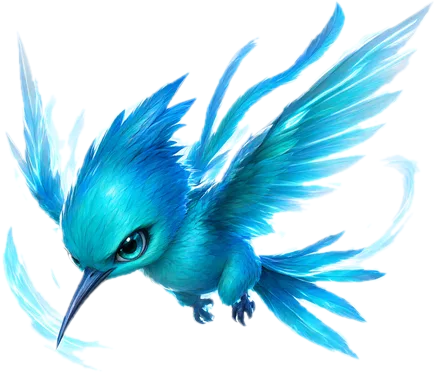
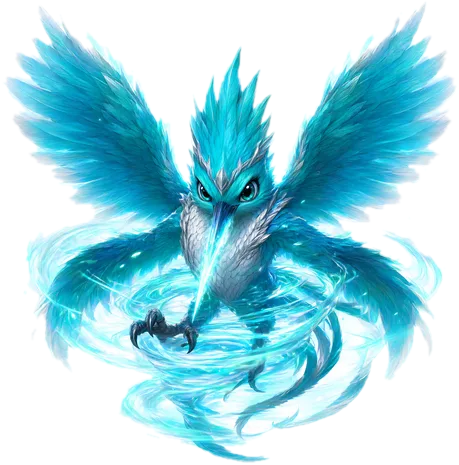
Sabimons: desenhos das 3 formas no app, fatos e poderes revisados
- Recorte das 30 imagens novas (estilo de batalha), incluindo as novas do Ventilu e do Estrelim
- Contorno de luz dourado no Zapinho/Faiscaluz/Trovalume e turquesa no Estrelim/Constelão/Galaxiá
- Recorte tira a sombra cinza do chão do Zapinho (para não virar um anel de luz)
- Todas as formas com desenho em src/data/sabimons.ts: as evoluções saem do "em breve"
- Fato do 007 (maria-farinha e guaiamum) e do 010 (tamanduá-bandeira)
- Poderes novos do Cristabuti (cristais rosa e turquesa) e do Montabuti (golem de cristal)

Claude-Session: https://claude.ai/code/session_013RvNPyb6NbVBUAbcf97H9R

diff --git a/src/data/sabimons.ts b/src/data/sabimons.ts
@@ -13,8 +13,8 @@ export const sabimons: Sabimon[] = [
     fato: 'A capivara é o maior roedor do mundo e nada muito bem.',
     formas: [
       { nome: 'Brasinho', poderes: ['Brasa Quentinha', 'Cabeçada em Chamas'], imagem: img('001', 1) },
-      { nome: 'Brasão', poderes: ['Juba de Fogo', 'Soco Brasa'] },
-      { nome: 'Fornalhuda', poderes: ['Coroa Vulcânica', 'Rio de Lava'] },
+      { nome: 'Brasão', poderes: ['Juba de Fogo', 'Soco Brasa'], imagem: img('001', 2) },
+      { nome: 'Fornalhuda', poderes: ['Coroa Vulcânica', 'Rio de Lava'], imagem: img('001', 3) },
     ],
   },
   {
@@ -22,8 +22,8 @@ export const sabimons: Sabimon[] = [
     fato: 'O boto-cor-de-rosa vive nos rios da Amazônia. É o maior golfinho de rio do mundo.',
     formas: [
       { nome: 'Pingoró', poderes: ['Bolha Saltitante', 'Esguicho'], imagem: img('002', 1) },
-      { nome: 'Botorrão', poderes: ['Onda Curvada', 'Nadadeira Giratória'] },
-      { nome: 'Marabotão', poderes: ['Anel das Águas', 'Tromba-d’Água'] },
+      { nome: 'Botorrão', poderes: ['Onda Curvada', 'Nadadeira Giratória'], imagem: img('002', 2) },
+      { nome: 'Marabotão', poderes: ['Anel das Águas', 'Tromba-d’Água'], imagem: img('002', 3) },
     ],
   },
   {
@@ -31,8 +31,8 @@ export const sabimons: Sabimon[] = [
     fato: 'O tatu-bola se fecha como uma bola para se proteger. Ele só existe no Brasil.',
     formas: [
       { nome: 'Sementú', poderes: ['Chicote de Cipó', 'Bola de Folhas'], imagem: img('003', 1) },
-      { nome: 'Tatuflora', poderes: ['Flor Perfumada', 'Laço de Cipó'] },
-      { nome: 'Matatu', poderes: ['Floresta Viva', 'Raiz Gigante'] },
+      { nome: 'Tatuflora', poderes: ['Flor Perfumada', 'Laço de Cipó'], imagem: img('003', 2) },
+      { nome: 'Matatu', poderes: ['Floresta Viva', 'Raiz Gigante'], imagem: img('003', 3) },
     ],
   },
   {
@@ -40,8 +40,8 @@ export const sabimons: Sabimon[] = [
     fato: 'O vaga-lume faz luz com uma mistura química dentro do corpo, e essa luz quase não esquenta.',
     formas: [
       { nome: 'Zapinho', poderes: ['Pisca-Pisca', 'Choquinho'], imagem: img('004', 1) },
-      { nome: 'Faiscaluz', poderes: ['Asa Relâmpago', 'Faísca Dupla'] },
-      { nome: 'Trovalume', poderes: ['Lanterna Trovão', 'Armadura Elétrica'] },
+      { nome: 'Faiscaluz', poderes: ['Asa Relâmpago', 'Faísca Dupla'], imagem: img('004', 2) },
+      { nome: 'Trovalume', poderes: ['Lanterna Trovão', 'Armadura Elétrica'], imagem: img('004', 3) },
     ],
   },
   {
@@ -49,8 +49,8 @@ export const sabimons: Sabimon[] = [
     fato: 'O jabuti é uma tartaruga que vive em terra firme e pode passar dos 50 anos de idade.',
     formas: [
       { nome: 'Pedrolho', poderes: ['Casco Duro', 'Cristal Brilhante'], imagem: img('005', 1) },
-      { nome: 'Cristabuti', poderes: ['Chuva de Ametista', 'Pisada Firme'] },
-      { nome: 'Montabuti', poderes: ['Montanha de Cristal', 'Terremoto Lento'] },
+      { nome: 'Cristabuti', poderes: ['Cristal Rosa', 'Pisada Turquesa'], imagem: img('005', 2) },
+      { nome: 'Montabuti', poderes: ['Soco de Geodo', 'Golem de Cristal'], imagem: img('005', 3) },
     ],
   },
   {
@@ -64,11 +64,11 @@ export const sabimons: Sabimon[] = [
   },
   {
     id: 's007', numero: 7, tipo: 'Areia', raridade: 'rara',
-    fato: 'As patas de trás do siri são achatadas como remos. Por isso ele nada muito bem.',
+    fato: 'A maria-farinha corre de lado bem rápido na areia da praia. O guaiamum é um caranguejo azul que vive perto dos manguezais.',
     formas: [
       { nome: 'Arenito', poderes: ['Pinça Rápida', 'Esconde na Areia'], imagem: img('007', 1) },
-      { nome: 'Dunasiri', poderes: ['Redemoinho de Areia', 'Garra de Arenito'] },
-      { nome: 'Tempestasiri', poderes: ['Tempestade de Areia', 'Casco de Duna'] },
+      { nome: 'Dunasiri', poderes: ['Redemoinho de Areia', 'Garra de Arenito'], imagem: img('007', 2) },
+      { nome: 'Tempestasiri', poderes: ['Tempestade de Areia', 'Casco de Duna'], imagem: img('007', 3) },
     ],
   },
   {
@@ -76,8 +76,8 @@ export const sabimons: Sabimon[] = [
     fato: 'No pelo do bicho-preguiça crescem algas, que deixam ele meio verde e ajudam a se esconder nas árvores.',
     formas: [
       { nome: 'Nevim', poderes: ['Sopro Gelado', 'Abraço de Neve'], imagem: img('008', 1) },
-      { nome: 'Friozão', poderes: ['Garra de Gelo', 'Pingente Pendurado'] },
-      { nome: 'Glaciaré', poderes: ['Coroa Glacial', 'Nevasca Sonolenta'] },
+      { nome: 'Friozão', poderes: ['Garra de Gelo', 'Pingente Pendurado'], imagem: img('008', 2) },
+      { nome: 'Glaciaré', poderes: ['Coroa Glacial', 'Nevasca Sonolenta'], imagem: img('008', 3) },
     ],
   },
   {
@@ -85,13 +85,13 @@ export const sabimons: Sabimon[] = [
     fato: 'O uirapuru vive na Floresta Amazônica e é famoso pelo canto, que parece uma flauta.',
     formas: [
       { nome: 'Cantaru', poderes: ['Nota Aguda', 'Assobio Mágico'], imagem: img('009', 1) },
-      { nome: 'Melodiru', poderes: ['Canção Brilhante', 'Eco da Floresta'] },
-      { nome: 'Sinfonuru', poderes: ['Onda Arco-Íris', 'Grande Sinfonia'] },
+      { nome: 'Melodiru', poderes: ['Canção Brilhante', 'Eco da Floresta'], imagem: img('009', 2) },
+      { nome: 'Sinfonuru', poderes: ['Onda Arco-Íris', 'Grande Sinfonia'], imagem: img('009', 3) },
     ],
   },
   {
     id: 's010', numero: 10, tipo: 'Estrela', raridade: 'lendaria',
-    fato: 'O tamanduá-mirim não tem dentes. Ele pega formigas e cupins com a língua comprida e grudenta.',
+    fato: 'O tamanduá-bandeira não tem dentes. Ele pega formigas e cupins com a língua, que pode passar de meio metro.',
     formas: [
       { nome: 'Estrelim', poderes: ['Pó de Estrela', 'Língua Cometa'], imagem: img('010', 1) },
       { nome: 'Constelão', poderes: ['Chuva de Meteoros', 'Lua Crescente'], imagem: img('010', 2) },

diff --git a/src/lib/loja.test.ts b/src/lib/loja.test.ts
@@ -5,7 +5,9 @@ import { sabimonPorId } from '../data/sabimons';
 import { mesclar, progressoVazio, sanitizar } from '../shared/sync';
 
 const estrelim = sabimonPorId.get('s010')!; // tem desenho das 3 formas
-const brasinho = sabimonPorId.get('s001')!; // só a forma 1 tem desenho
+const b0 = sabimonPorId.get('s001')!;
+// exemplo de Sabimon cuja forma 2 ainda não tem desenho
+const brasinho = { ...b0, formas: [b0.formas[0], { ...b0.formas[1], imagem: undefined }, b0.formas[2]] as typeof b0.formas };
 
 describe('Sabicoins', () => {
   it('o saldo é o XP menos o que foi gasto', () => {

diff --git a/scripts/recortar-sabimons.py b/scripts/recortar-sabimons.py
@@ -1,7 +1,9 @@
 # Recorta o fundo branco dos desenhos dos Sabimons e salva versões leves para o app.
-# Uso: python3 scripts/recortar-sabimons.py
+# Uso: python3 scripts/recortar-sabimons.py          (só as novas ou que mudaram)
+#      python3 scripts/recortar-sabimons.py --tudo   (refaz todas)
 # Lê arte/sabimons/originais/<número>-<forma>.png e grava public/sabimons/<número>-<forma>.webp
 # Só refaz as imagens novas ou que mudaram. Depois, atualize a lista em src/data/sabimons.ts.
+import sys
 from collections import deque
 from pathlib import Path
 import numpy as np
@@ -10,12 +12,34 @@ from PIL import Image, ImageFilter
 ORIGEM = Path('arte/sabimons/originais')
 DESTINO = Path('public/sabimons')
 TAMANHO = 480
+# Bichos escuros ganham um contorno de luz para não sumirem no fundo azul-noite (docs/ARTE-SABIMONS.md).
+CONTORNO = {
+    '004': (250, 204, 21),   # Zapinho, Faiscaluz, Trovalume: dourado
+    '010': (34, 211, 238),   # Estrelim, Constelão, Galaxiá: turquesa
+}
+# Desenhos com sombra cinza no chão: o recorte também tira o cinza claro (não usar em bicho branco).
+TIRAR_SOMBRA = {'004-1'}
+
+def contorno(img: Image.Image, cor) -> Image.Image:
+    """Desenha uma luz da cor dada em volta do bicho, por trás dele."""
+    margem = 14
+    base = Image.new('RGBA', (img.width + 2 * margem, img.height + 2 * margem), (0, 0, 0, 0))
+    base.paste(img, (margem, margem), img)
+    a = base.getchannel('A')
+    perto = a.filter(ImageFilter.MaxFilter(7)).filter(ImageFilter.GaussianBlur(2.5))
+    longe = a.filter(ImageFilter.MaxFilter(9)).filter(ImageFilter.GaussianBlur(9))
+    brilho = Image.fromarray(np.clip(np.asarray(perto, float) * 0.95 + np.asarray(longe, float) * 0.6, 0, 255).astype('uint8'))
+    luz = Image.new('RGBA', base.size, cor + (0,))
+    luz.putalpha(brilho)
+    luz.alpha_composite(base)
+    return luz
 
 def recortar(src: Path, dst: Path):
     im = Image.open(src).convert('RGB').resize((TAMANHO, TAMANHO), Image.LANCZOS)
     a = np.asarray(im).astype(int)
     h, w, _ = a.shape
-    claro = (a.min(axis=2) > 228) & ((a.max(axis=2) - a.min(axis=2)) < 22)
+    limite = 185 if src.stem in TIRAR_SOMBRA else 228
+    claro = (a.min(axis=2) > limite) & ((a.max(axis=2) - a.min(axis=2)) < 22)
     fundo = np.zeros((h, w), bool)
     fila = deque([(y, x) for y in range(h) for x in (0, w - 1)] + [(y, x) for x in range(w) for y in (0, h - 1)])
     while fila:
@@ -27,12 +51,16 @@ def recortar(src: Path, dst: Path):
     alpha = Image.fromarray(np.where(fundo, 0, 255).astype('uint8')).filter(ImageFilter.MinFilter(3)).filter(ImageFilter.GaussianBlur(1))
     out = im.convert('RGBA')
     out.putalpha(alpha)
-    out.crop(out.getbbox()).save(dst, 'WEBP', quality=82)
+    out = out.crop(out.getbbox())
+    cor = CONTORNO.get(src.stem.split('-')[0])
+    if cor:
+        out = contorno(out, cor)
+    out.save(dst, 'WEBP', quality=82)
 
 DESTINO.mkdir(parents=True, exist_ok=True)
 for src in sorted(ORIGEM.glob('*.png')):
     dst = DESTINO / (src.stem + '.webp')
-    if dst.exists() and dst.stat().st_mtime >= src.stat().st_mtime:
+    if '--tudo' not in sys.argv and dst.exists() and dst.stat().st_mtime >= src.stat().st_mtime:
         continue
     recortar(src, dst)
     print('ok', dst)
